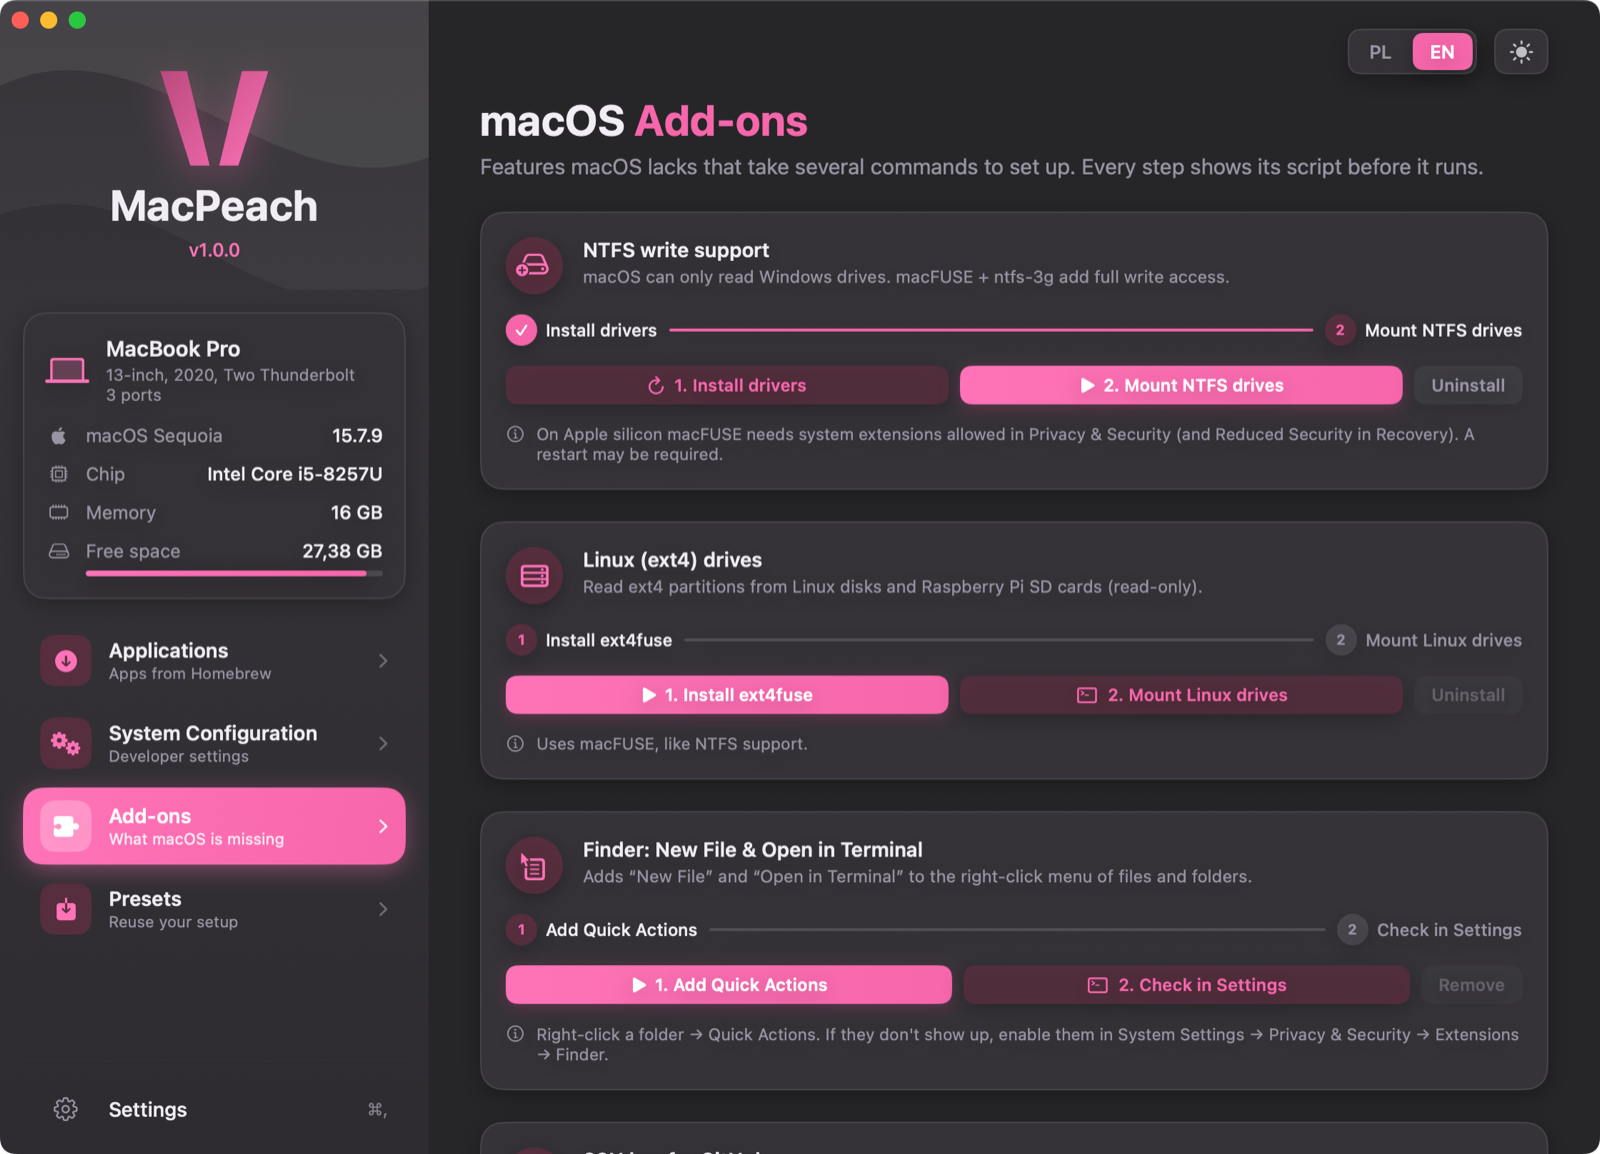
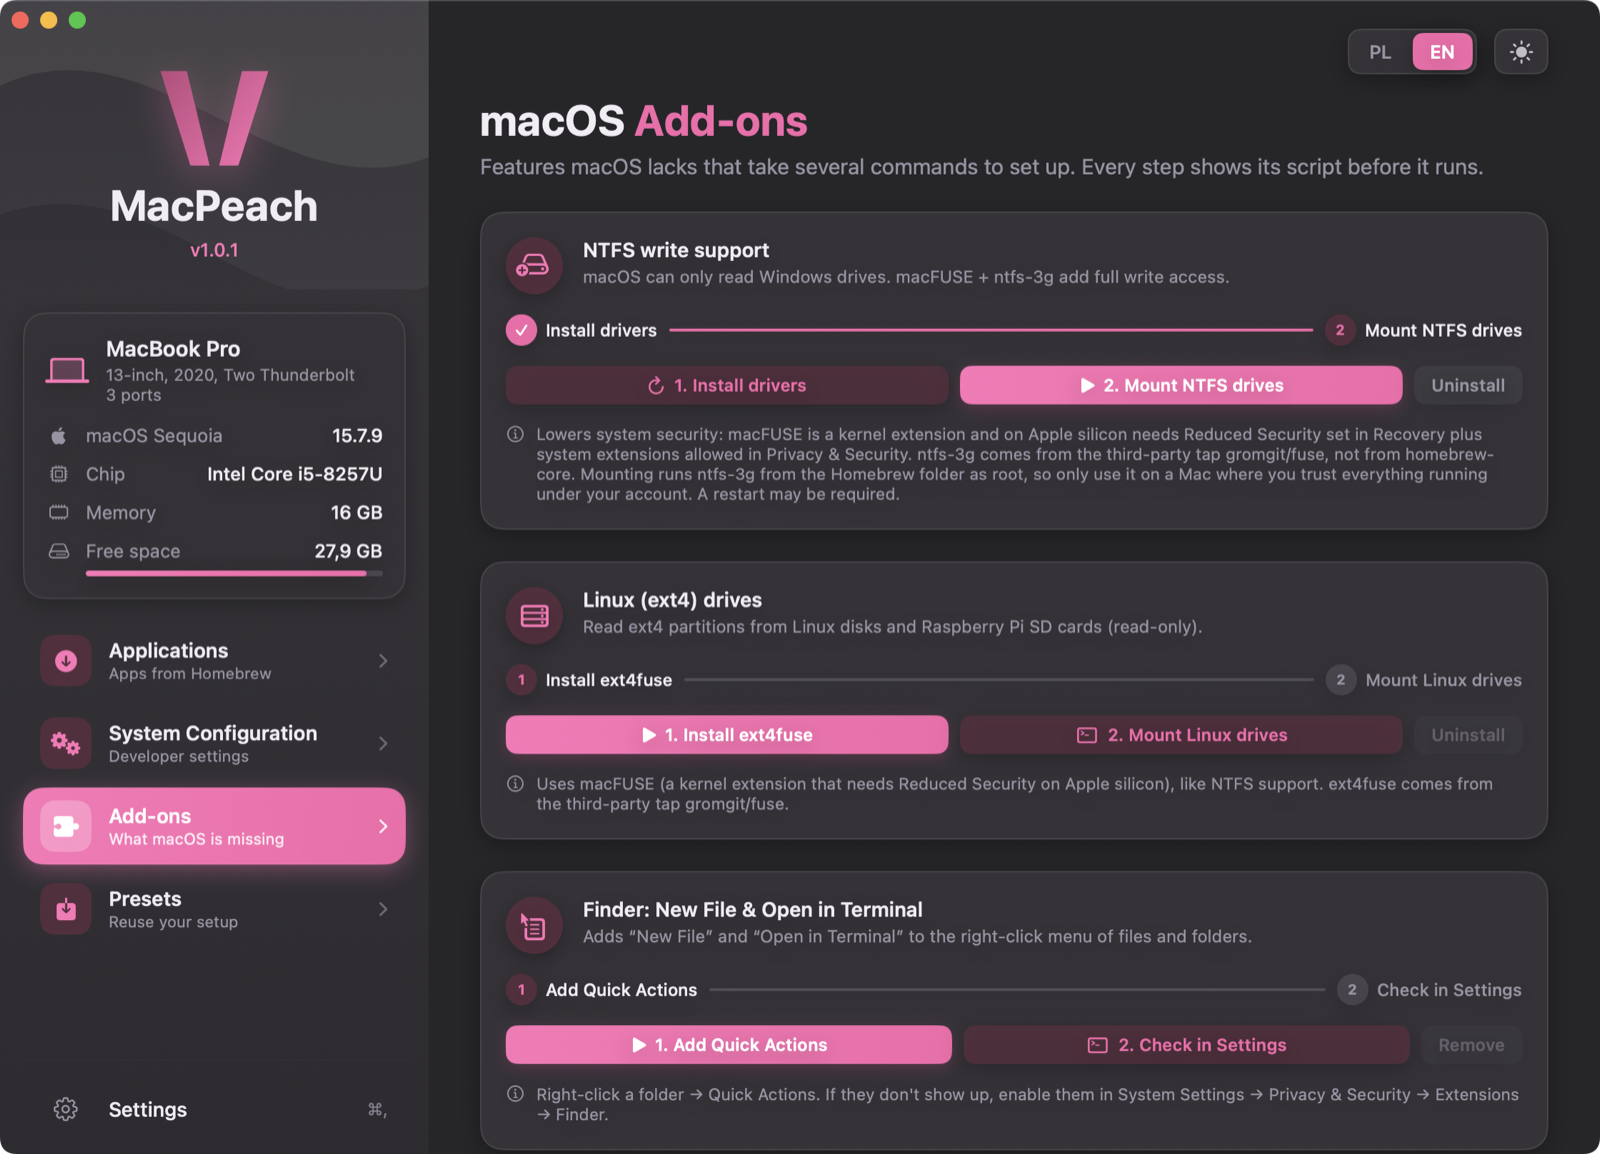
Przygotowanie wydania v1.0.1

diff --git a/MacPeach/Extras.swift b/MacPeach/Extras.swift
@@ -68,7 +68,6 @@ nonisolated enum ExtrasCatalog {
                       info="$(diskutil info "$dev" 2>/dev/null)"
                       echo "$info" | grep -qiE '(Type \\(Bundle\\)|File System Personality): +ntfs' || continue
                       found=1
-                      # The volume label comes from the drive, so it is untrusted: keep safe characters only.
                       name="$(echo "$info" | sed -n 's/^ *Volume Name: *//p' | head -n 1 | LC_ALL=C tr -d '\\n' | LC_ALL=C tr -c 'A-Za-z0-9._ -' '_' | cut -c1-64)"
                       case "$name" in ''|.*) name="$dev" ;; esac
                       mountpoint="/Volumes/$name"
@@ -228,7 +227,6 @@ nonisolated enum ExtrasCatalog {
         )
     )
 
-    /// Host keys published by GitHub (https://api.github.com/meta, "ssh_keys"), pinned instead of trusting the first connection.
     static let githubHostKeys = [
         "github.com ssh-ed25519 AAAAC3NzaC1lZDI1NTE5AAAAIOMqqnkVzrm0SdG6UOoqKLsabgH5C9okWi0dh2l9GKJl",
         "github.com ecdsa-sha2-nistp256 AAAAE2VjZHNhLXNoYTItbmlzdHAyNTYAAAAIbmlzdHAyNTYAAABBBEmKSENjQEezOmxkZMy7opKgwFB9nkt5YRrYMjNuG5N87uRgg6CLrbo5wAdT/y6v0mKV0U2w0WZ2YB/++Tpockg=",
@@ -280,7 +278,6 @@ nonisolated enum ExtrasCatalog {
                         echo \(t(lang, "Nie utworzono klucza: wymagane hasło o długości co najmniej 8 znaków.", "No key was created: a passphrase of at least 8 characters is required."))
                         exit 1
                       fi
-                      # The passphrase goes through a 0600 file read by SSH_ASKPASS, never through argv (visible in ps).
                       (umask 077; printf '%s' "$PASS" > "$MACPEACH_RUN_DIR/keypass")
                       unset PASS
                       cat > "$MACPEACH_RUN_DIR/keypass.sh" <<'KEYPASS'
@@ -374,7 +371,6 @@ nonisolated enum ExtrasCatalog {
                           echo \(t(lang, "Katalog /opt nie należy do roota. Pomijam pam_reattach (Touch ID zadziała poza tmux).",
                                          "/opt is not owned by root. Skipping pam_reattach (Touch ID will work outside tmux)."))
                         else
-                          # The PAM module runs inside sudo as root, so it must not stay in the user-writable Homebrew prefix.
                           sudo /usr/bin/install -d -o root -g wheel -m 755 /opt/macpeach "$PAM_DIR"
                           sudo /usr/sbin/chown root:wheel /opt/macpeach "$PAM_DIR"
                           sudo /bin/chmod 755 /opt/macpeach "$PAM_DIR"
@@ -392,7 +388,6 @@ nonisolated enum ExtrasCatalog {
                     [ -n "$REATTACH" ] && CONTENT="$CONTENT"$'\\n'"auth       optional       $REATTACH ignore_ssh"
                     CONTENT="$CONTENT"$'\\n'"auth       sufficient     pam_tid.so"
                     echo "$CONTENT"
-                    # Written through a pipe, not a temp file another process could swap while the password dialog is open.
                     printf '%s\\n' "$CONTENT" | sudo /usr/bin/tee /etc/pam.d/sudo_local.macpeach >/dev/null
                     sudo /usr/sbin/chown root:wheel /etc/pam.d/sudo_local.macpeach
                     sudo /bin/chmod 444 /etc/pam.d/sudo_local.macpeach

diff --git a/Tests/main.swift b/Tests/main.swift
@@ -1,4 +1,3 @@
-// Security regression tests. Compiled together with the app sources (without the SwiftUI entry point) by Tests/run.sh.
 import Foundation
 
 var failures = 0
@@ -12,20 +11,17 @@ let setupURL = URL(fileURLWithPath: args[1])
 let out = URL(fileURLWithPath: args[2], isDirectory: true)
 let fm = FileManager.default
 
-// Catalog parsing and security annotations
 let catalog = ShParser.parse(try String(contentsOf: setupURL, encoding: .utf8))
 check(!catalog.formulae.isEmpty && !catalog.casks.isEmpty && !catalog.tweaks.isEmpty, "MacSetup.sh has all three pipelines")
 check(catalog.tweaks.first { $0.commands.contains { $0.contains("LSQuarantine") } }?.security == .lowers, "LSQuarantine is marked @security lowers")
 check(catalog.tweaks.filter { $0.commands.contains { $0.contains("socketfilterfw") } }.allSatisfy { $0.security == .raises }, "firewall settings are marked @security raises")
 check(!ShParser.isSafePackageName("git; rm -rf ~") && !ShParser.isSafePackageName("$(id)") && ShParser.isSafePackageName("gromgit/fuse/ntfs-3g-mac"), "package name allow-list")
 
-// Choice values never reach the shell unescaped
 if var choice = catalog.tweaks.first(where: \.isChoice) {
     choice.selectedValue = "5; touch /tmp/pwned"
     check(!choice.resolvedCommands.joined().contains("pwned"), "unsafe @options value falls back to the default")
 }
 
-// SafeFile limits
 let big = out.appendingPathComponent("big.json")
 try Data(count: 2_000).write(to: big)
 check((try? SafeFile.read(big, limit: 1_000)) == nil, "SafeFile rejects a file over the limit")
@@ -33,11 +29,9 @@ check((try? SafeFile.read(out, limit: 1_000)) == nil, "SafeFile rejects a direct
 check((try? SafeFile.read(URL(fileURLWithPath: "/dev/zero"), limit: 1_000)) == nil, "SafeFile rejects /dev/zero")
 check((try? SafeFile.read(big, limit: 5_000))?.count == 2_000, "SafeFile reads a regular file")
 
-// Child process environment
 let env = Shell.environment()
 check(env.keys.allSatisfy { !$0.hasPrefix("DYLD_") && $0 != "BASH_ENV" && $0 != "ENV" }, "no DYLD_* / BASH_ENV in child environment")
 
-// Dump generated scripts for bash -n / shellcheck / behaviour tests in run.sh
 let scripts = out.appendingPathComponent("scripts", isDirectory: true)
 try fm.createDirectory(at: scripts, withIntermediateDirectories: true)
 func dump(_ name: String, _ body: String) throws {

diff --git a/MacPeach/Scripting.swift b/MacPeach/Scripting.swift
@@ -21,8 +21,6 @@ nonisolated enum Shell {
         return .installed(version: version, prefix: prefix)
     }
 
-    /// Variables passed through from the app's own environment. Everything else (DYLD_*, BASH_ENV, ENV,
-    /// HOMEBREW_*, …) is dropped, so a modified launchd environment cannot inject code into child shells.
     private static let passThrough = [
         "USER", "LOGNAME", "SHELL", "TMPDIR", "SSH_AUTH_SOCK", "__CF_USER_TEXT_ENCODING",
         "http_proxy", "https_proxy", "all_proxy", "no_proxy", "HTTP_PROXY", "HTTPS_PROXY", "ALL_PROXY", "NO_PROXY",
@@ -303,8 +301,6 @@ nonisolated enum ScriptGenerator {
         """
         #!/bin/bash
         set -uo pipefail
-        # Absolute sudo and a system-only PATH: /usr/local/bin and /opt/homebrew/bin are user-writable,
-        # so a planted "sudo" or "pmset" there must never run instead of the real one.
         sudo() { PATH=/usr/bin:/bin:/usr/sbin:/sbin /usr/bin/sudo -A "$@"; }
         for brew_bin in /opt/homebrew/bin/brew /usr/local/bin/brew; do
           if [ -x "$brew_bin" ]; then eval "$("$brew_bin" shellenv)"; break; fi
@@ -395,7 +391,6 @@ nonisolated enum ScriptGenerator {
         return lines.joined(separator: "\n")
     }
 
-    /// Team ID of the Developer ID Installer certificate that signs Homebrew's official .pkg.
     static let homebrewTeamID = "927JGANW46"
 
     static func installHomebrew(lang: Lang) -> String {

diff --git a/MacPeach/Parsing.swift b/MacPeach/Parsing.swift
@@ -21,7 +21,6 @@ nonisolated enum CatalogSource {
         FileManager.default.fileExists(atPath: customURL.path)
     }
 
-    /// `@current` commands from the MacSetup.sh shipped inside the (signed) app bundle.
     static let bundledCurrentCommands: Set<String> = {
         guard let url = bundledURL, let text = try? String(contentsOf: url, encoding: .utf8) else { return [] }
         return Set(ShParser.parse(text).tweaks.compactMap(\.currentCommand))
@@ -49,7 +48,6 @@ nonisolated enum CatalogSource {
     }
 }
 
-/// Reads only regular files up to a size limit, checked before any bytes are loaded.
 nonisolated enum SafeFile {
     static func read(_ url: URL, limit: Int) throws -> Data {
         let values = try url.resolvingSymlinksInPath().resourceValues(forKeys: [.isRegularFileKey, .fileSizeKey])

diff --git a/MacPeach/Store.swift b/MacPeach/Store.swift
@@ -139,8 +139,6 @@ final class AppStore: ObservableObject {
         AppLog.shared.info("Installed scan: \(viaBrew) via Homebrew, \(manual) installed manually, brew available: \(scan.brewAvailable)")
     }
 
-    /// `@current` commands from a custom MacSetup.sh that the user has not approved yet are never run.
-    /// Commands identical to the ones shipped in the app bundle are trusted.
     private var declinedCurrentCommands: Set<String> = []
     private var isAskingAboutCurrentCommands = false
 

diff --git a/MacPeach/Models.swift b/MacPeach/Models.swift
@@ -59,7 +59,6 @@ nonisolated struct TweakOption: Hashable, Sendable {
     let label: BiText
 }
 
-/// Effect of a setting on system security, from a `# @security lowers|raises` line in MacSetup.sh.
 nonisolated enum TweakSecurity: String, Sendable {
     case lowers, raises
 }
